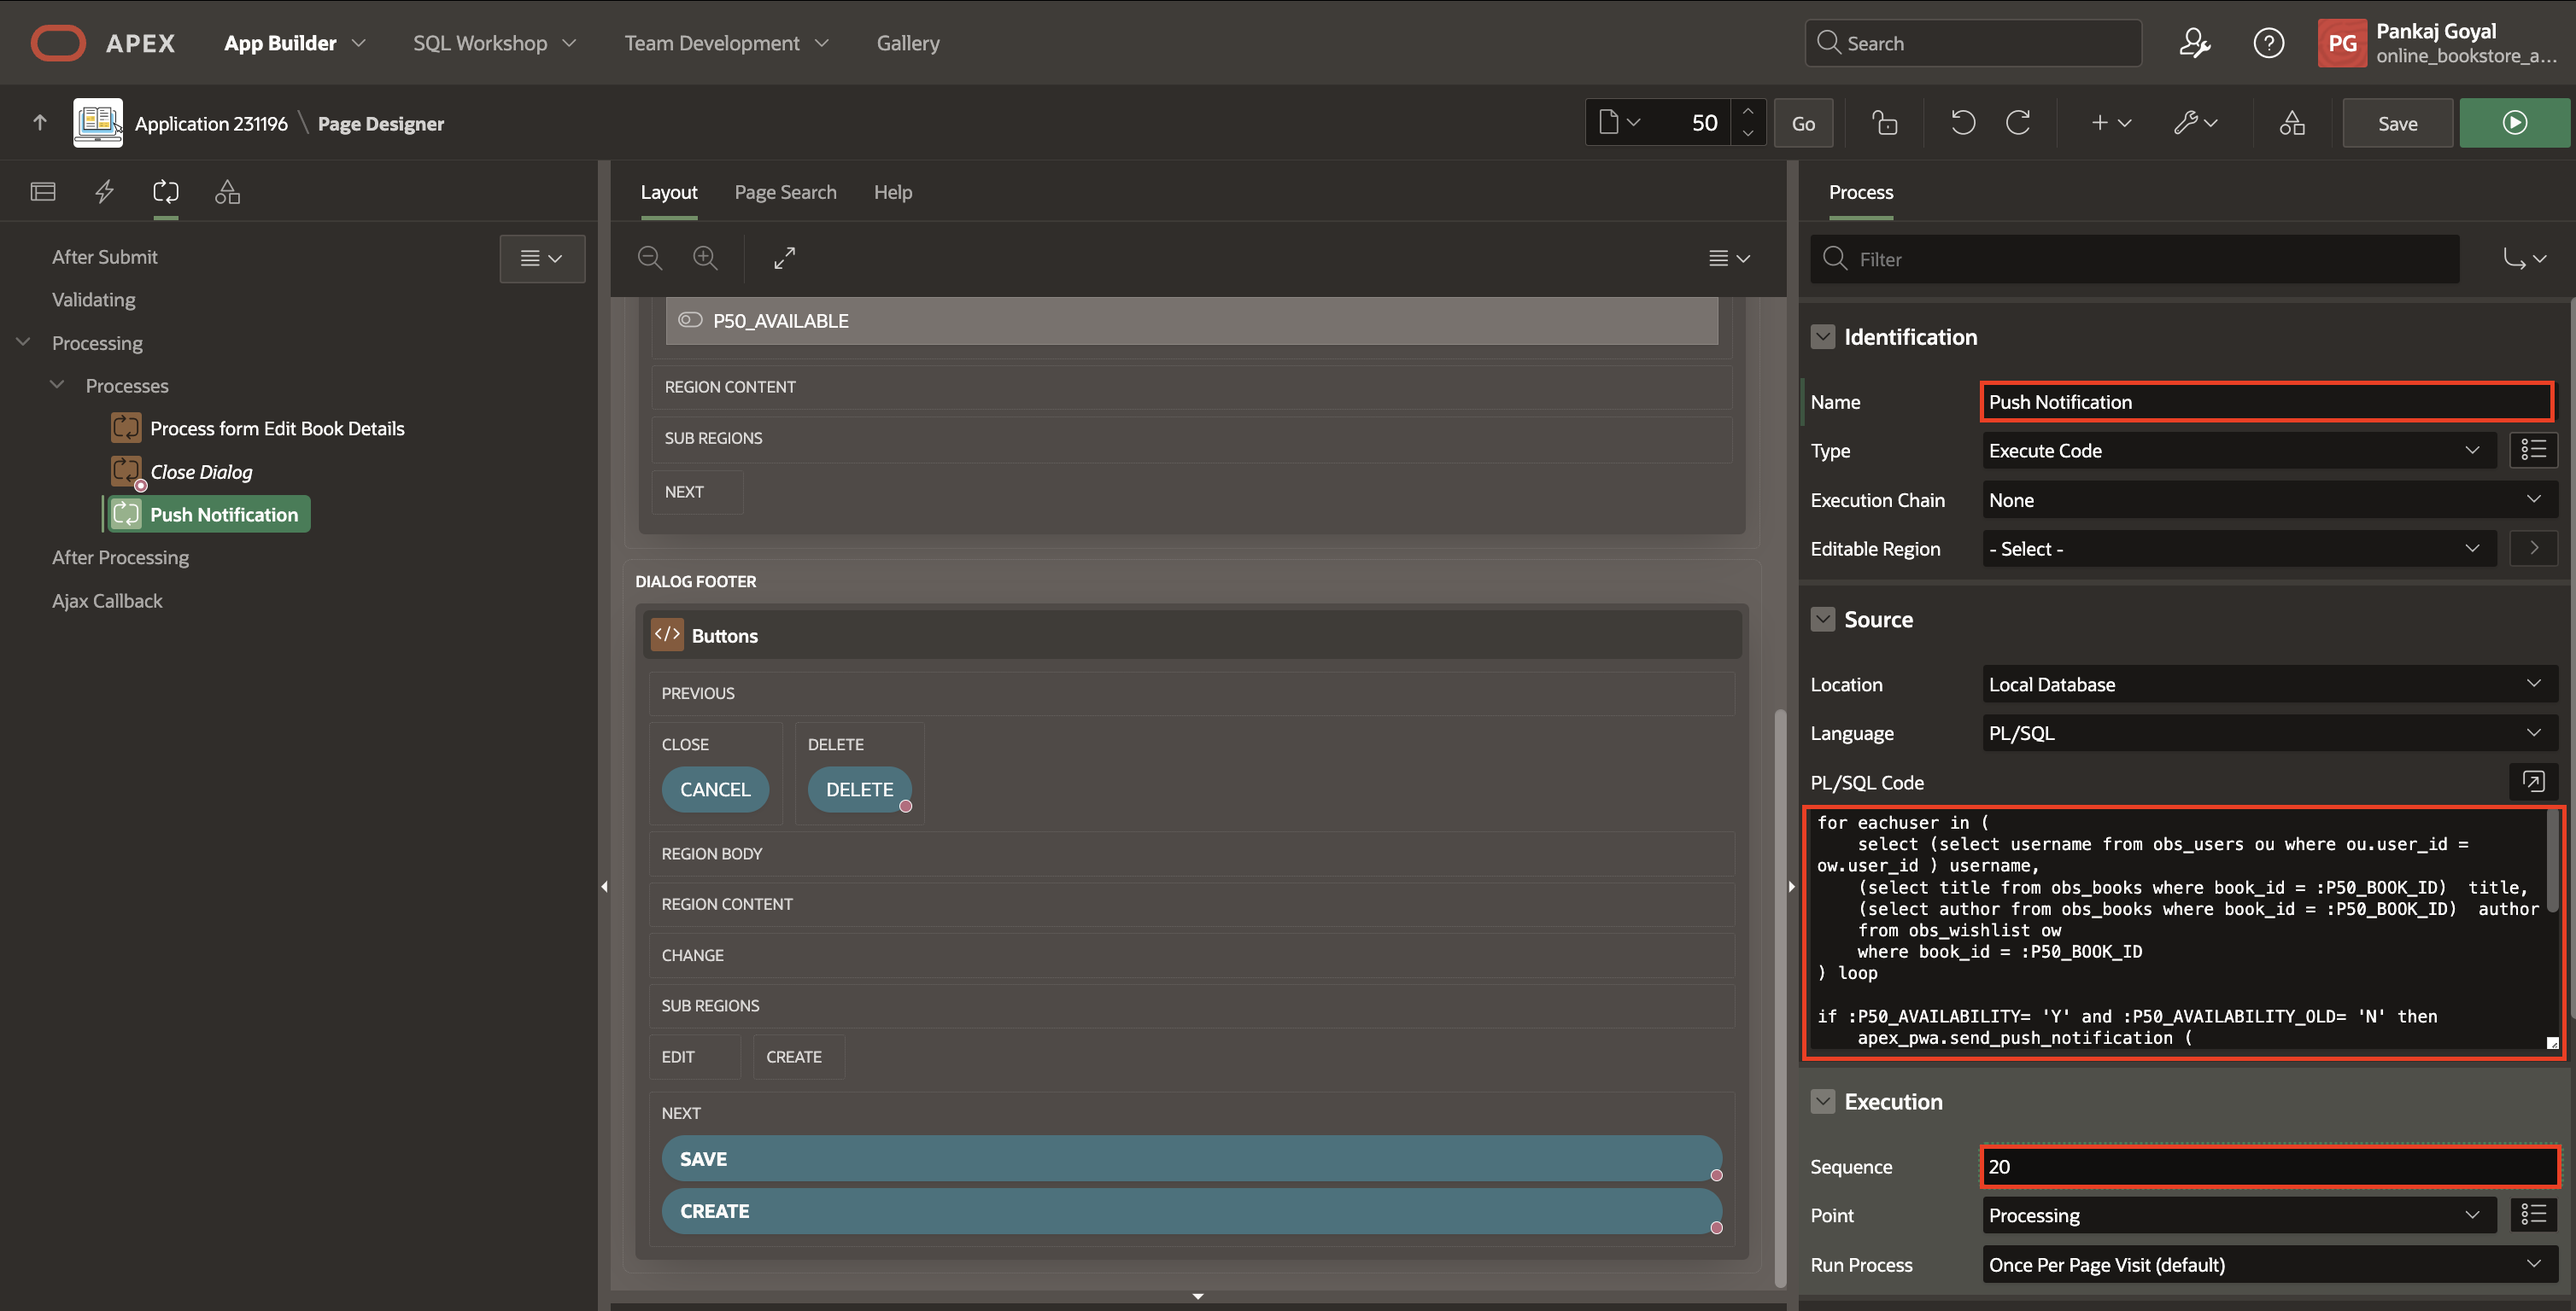
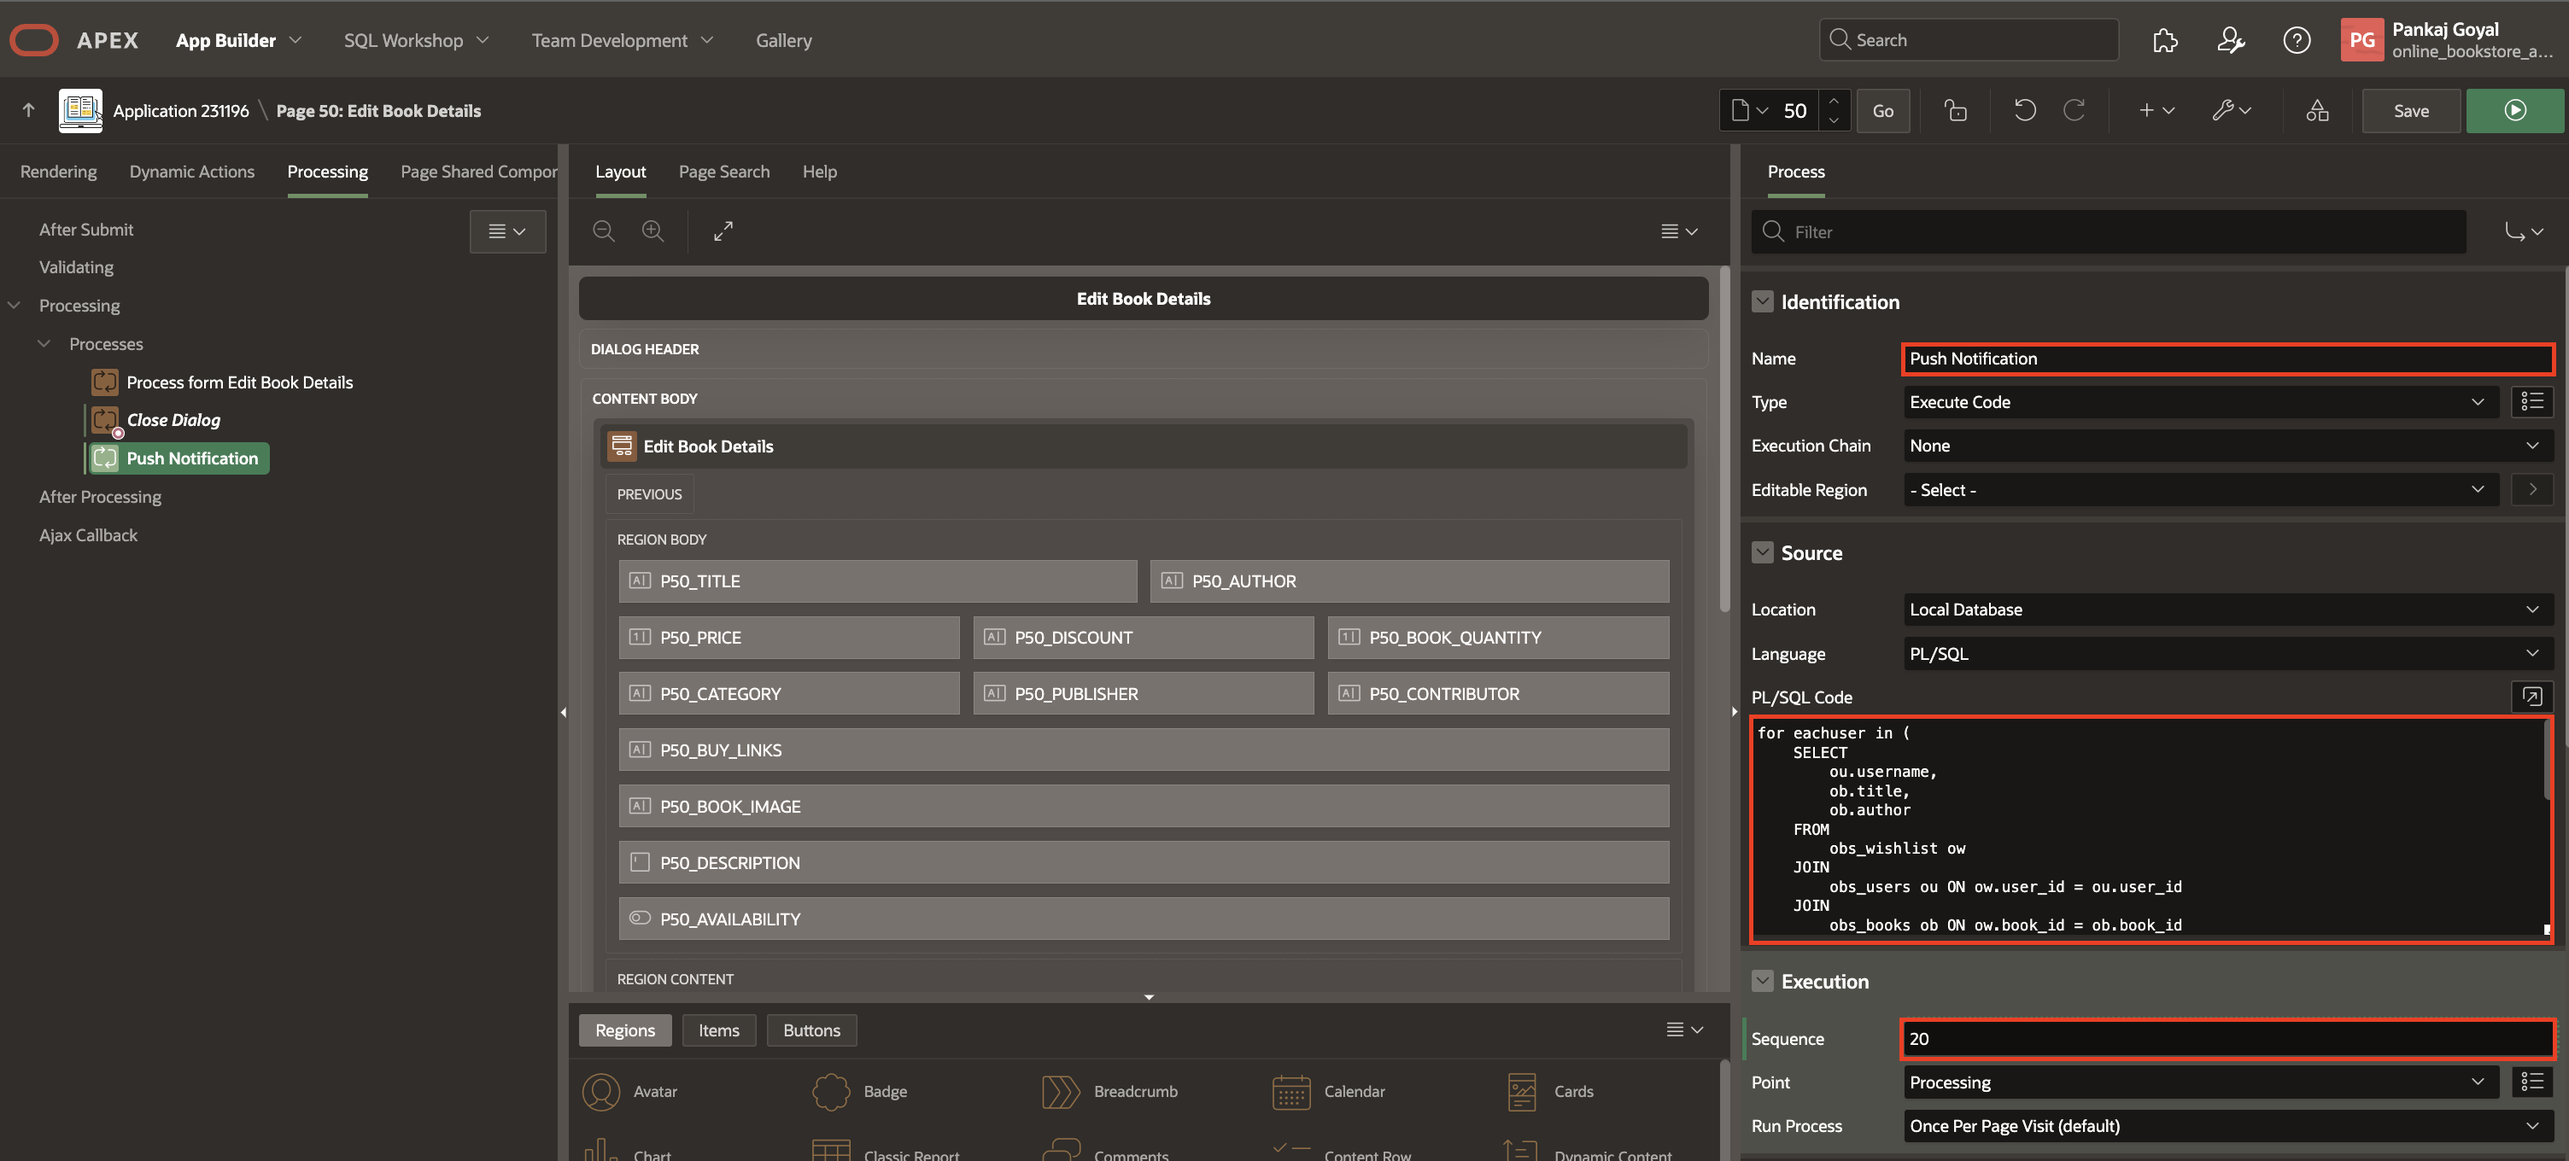
OBS 24.2 Feedback fixes

diff --git a/online-bookstore-app/13-push-notification/13-push-notification.md b/online-bookstore-app/13-push-notification/13-push-notification.md
@@ -106,11 +106,18 @@ In this lab, you will:
         ```
         <copy>
         for eachuser in (
-            select (select username from obs_users ou where ou.user_id = ow.user_id ) username,
-            (select title from obs_books where book_id = :P50_BOOK_ID)  title,
-            (select author from obs_books where book_id = :P50_BOOK_ID)  author
-            from obs_wishlist ow
-            where book_id = :P50_BOOK_ID
+            SELECT
+                ou.username,
+                ob.title,
+                ob.author
+            FROM
+                obs_wishlist ow
+            JOIN
+                obs_users ou ON ow.user_id = ou.user_id
+            JOIN
+                obs_books ob ON ow.book_id = ob.book_id
+            WHERE
+                ob.book_id = :P50_BOOK_ID
         ) loop
 
         if :P50_AVAILABILITY= 'Y' and :P50_AVAILABILITY_OLD= 'N' then
